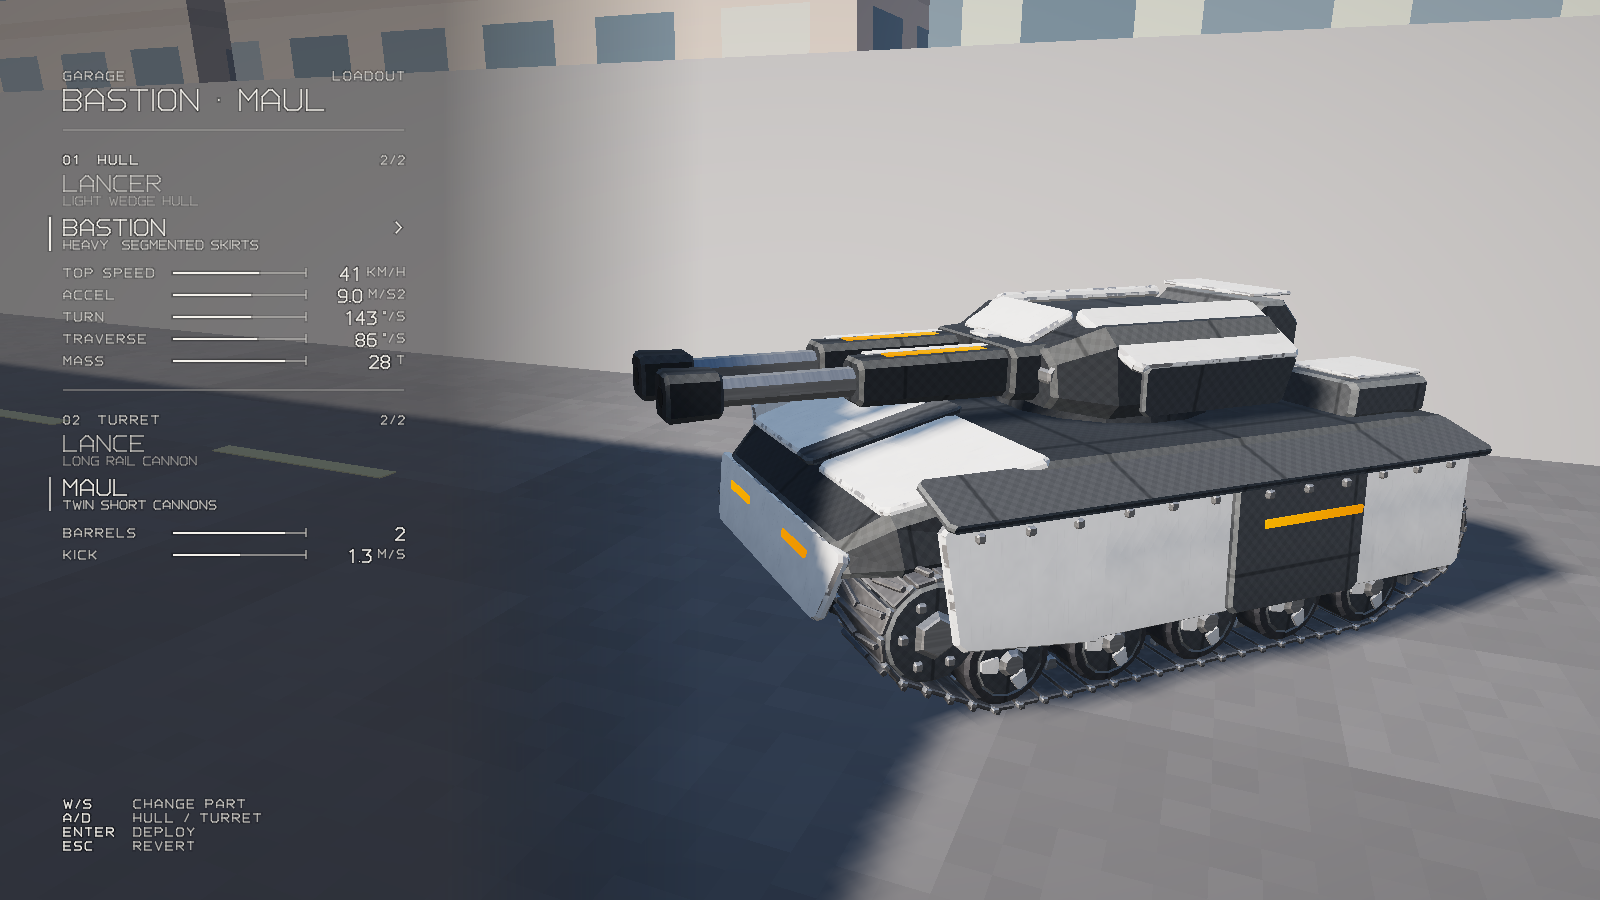
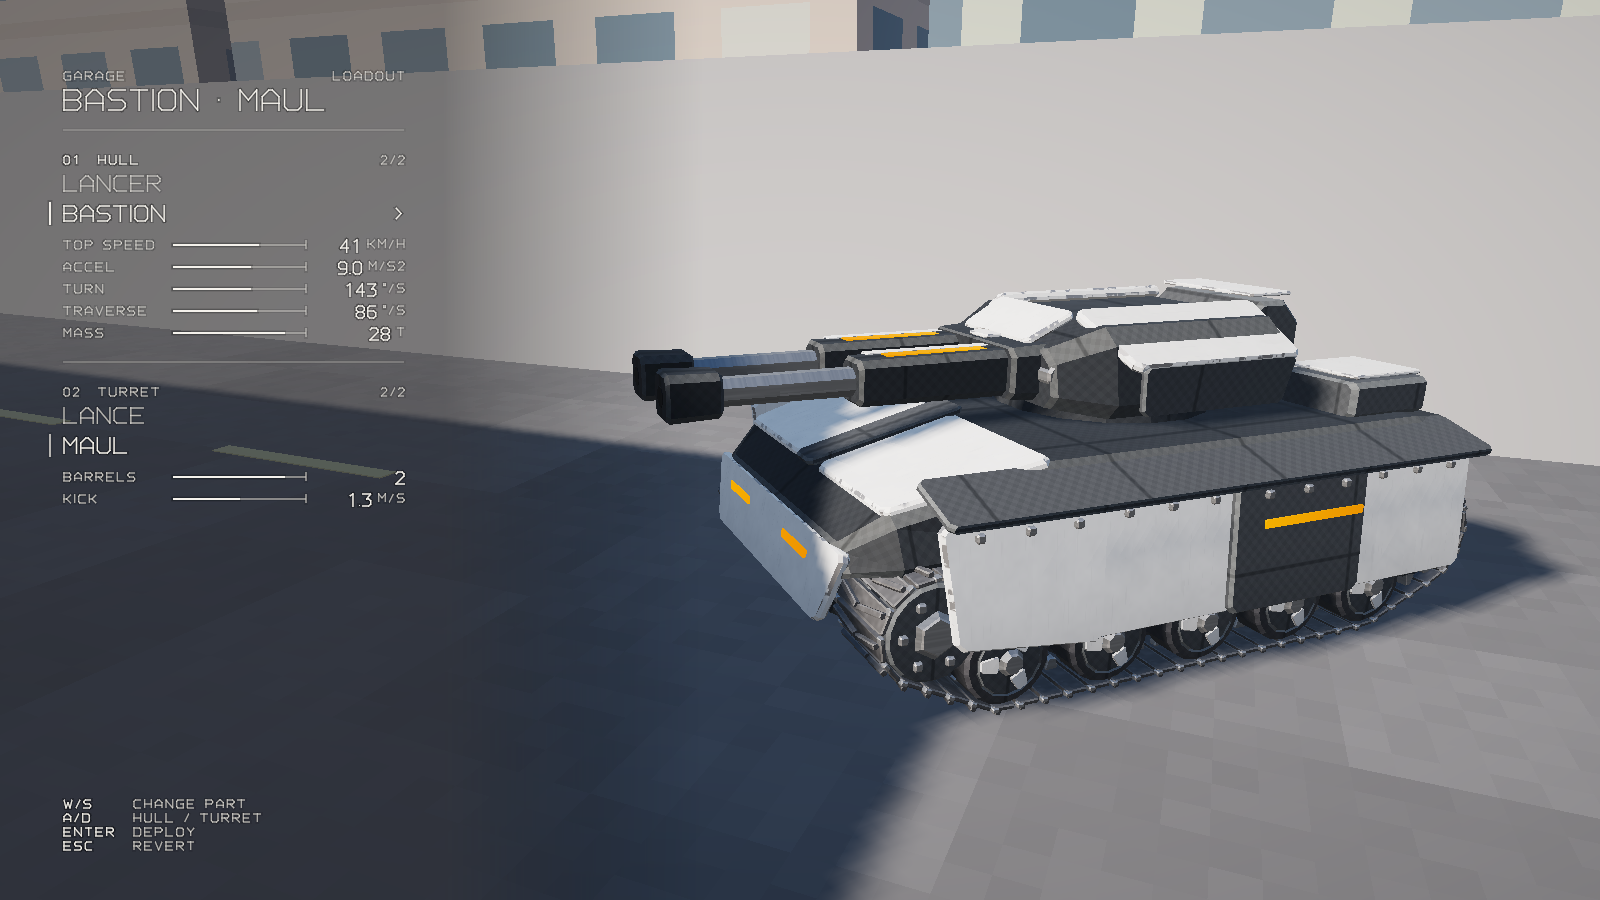
Garage: drop part blurbs, tighten rows
Claude-Session: https://claude.ai/code/session_01MEmTqCKqk7bc4fYFMjcX6m

diff --git a/src/garage.rs b/src/garage.rs
@@ -33,24 +33,10 @@ pub fn hull_name(k: HullKind) -> &'static str {
     }
 }
 
-fn hull_blurb(k: HullKind) -> &'static str {
-    match k {
-        HullKind::Lancer => "LIGHT WEDGE HULL",
-        HullKind::Bastion => "HEAVY, SEGMENTED SKIRTS",
-    }
-}
-
 pub fn turret_name(k: TurretKind) -> &'static str {
     match k {
         TurretKind::Lance => "LANCE",
         TurretKind::Maul => "MAUL",
-    }
-}
-
-fn turret_blurb(k: TurretKind) -> &'static str {
-    match k {
-        TurretKind::Lance => "LONG RAIL CANNON",
-        TurretKind::Maul => "TWIN SHORT CANNONS",
     }
 }
 
@@ -284,8 +270,8 @@ impl Garage {
         p.line(Vec2::new(x, y), Vec2::new(x + PANEL_W, y), 1.0, theme::FAINT);
         y += 26.0;
 
-        let hulls: Vec<_> = HULLS.iter().map(|&k| (Part::Hull(k), hull_name(k), hull_blurb(k))).collect();
-        let turrets: Vec<_> = TURRETS.iter().map(|&k| (Part::Turret(k), turret_name(k), turret_blurb(k))).collect();
+        let hulls: Vec<_> = HULLS.iter().map(|&k| (Part::Hull(k), hull_name(k))).collect();
+        let turrets: Vec<_> = TURRETS.iter().map(|&k| (Part::Turret(k), turret_name(k))).collect();
         let sections = [
             ("01", "HULL", hulls, Part::Hull(tank.hull_kind), Part::Hull(self.entry.0), &HULL_STATS[..]),
             ("02", "TURRET", turrets, Part::Turret(tank.turret_kind), Part::Turret(self.entry.1), &TURRET_STATS[..]),
@@ -299,12 +285,12 @@ impl Garage {
             label(&mut p, Vec2::new(x + PANEL_W, y), &format!("{}/{}", index_of(items, *current) + 1, items.len()), Align::Right);
             y += 20.0;
 
-            for (part, item, blurb) in items {
+            for (part, item) in items {
                 let selected = part == current;
                 if selected {
                     // Bar beside the selected part; brightest in the focused section.
                     let c = if focused { theme::FG } else { theme::DIM };
-                    p.line(Vec2::new(x - 14.0, y - 2.0), Vec2::new(x - 14.0, y + 30.0), 2.0, c);
+                    p.line(Vec2::new(x - 14.0, y - 3.0), Vec2::new(x - 14.0, y + 18.0), 2.0, c);
                     if focused {
                         p.polyline(&[Vec2::new(x + PANEL_W - 8.0, y + 2.0), Vec2::new(x + PANEL_W - 3.0, y + 7.5), Vec2::new(x + PANEL_W - 8.0, y + 13.0)], 1.2, c);
                     }
@@ -315,11 +301,7 @@ impl Garage {
                 if part == was && !selected {
                     label(&mut p, Vec2::new(x + PANEL_W - 16.0, y + 4.0), "WAS", Align::Right);
                 }
-                let mut b = TextStyle::LABEL;
-                b.tracking = 2.5;
-                b.color = if selected { theme::DIM } else { theme::FAINT };
-                p.text(Vec2::new(x, y + 21.0), blurb, &b, Align::Left);
-                y += 44.0;
+                y += 30.0;
             }
 
             y += 4.0;
@@ -353,7 +335,7 @@ impl Garage {
     }
 }
 
-fn index_of(items: &[(Part, &str, &str)], part: Part) -> usize {
+fn index_of(items: &[(Part, &str)], part: Part) -> usize {
     items.iter().position(|i| i.0 == part).unwrap_or(0)
 }
 
